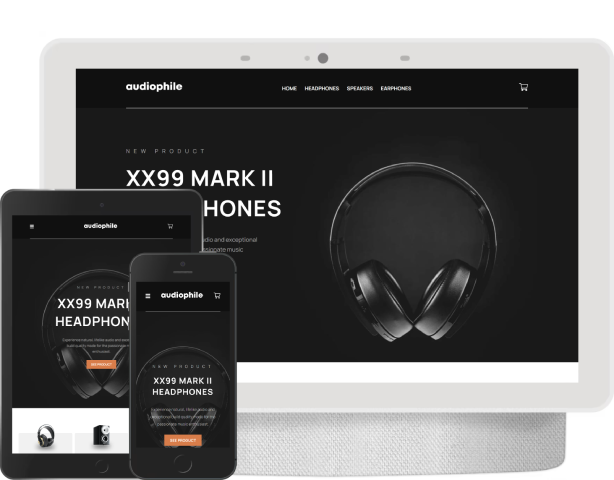
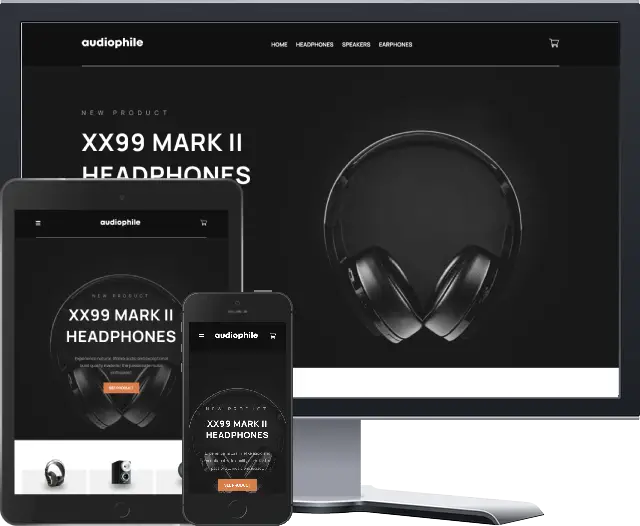
update images for projects section

diff --git a/index.html b/index.html
@@ -53,20 +53,7 @@
             </a>
           </div>
           <div class="desktop-nav__link-wrapper">
-            <div class="desktop-nav__link desktop-nav__link--drop-down">
-              <a
-                >Projects
-                <i
-                  class="desktop-nav__dropdown-arrow fa-solid fa-chevron-down"
-                ></i>
-              </a>
-              <div class="desktop-nav__sub-links-wrpper">
-                <a class="desktop-nav__sub-link" href="./allProjects.html"
-                  >All</a
-                >
-                <a class="desktop-nav__sub-link" href="./#projects">Featured</a>
-              </div>
-            </div>
+            <a class="desktop-nav__link" href="./#projects"> Projects </a>
           </div>
           <div class="link-wrapper">
             <a class="desktop-nav__link" href="#about"> About</a>
@@ -92,21 +79,12 @@
                 >Home</a
               >
             </div>
-            <div class="mobile-nav__item mobile-nav__dropdown">
-              <div class="mobile-nav__dropdown-toggle">
-                Projects
-                <i
-                  class="mobile-nav__dropdown-arrow fa-solid fa-chevron-down"
-                ></i>
-              </div>
-              <div class="mobile-nav__submenu">
-                <div class="mobile-nav__item">
-                  <a class="mobile-nav__link" href="./allProjects.html">All</a>
-                </div>
-                <div class="mobile-nav__item">
-                  <a class="mobile-nav__link" href="./#projects">Featured</a>
-                </div>
-              </div>
+            <div class="mobile-nav__item">
+              <a
+                class="mobile-nav__link mobile-nav__link--active"
+                href="./#projects"
+                >Projects</a
+              >
             </div>
             <div class="mobile-nav__item">
               <a class="mobile-nav__link" href="#about">About</a>
@@ -235,7 +213,7 @@
         <h2>FEATURED PROJECTS</h2>
         <article class="projects__project-container">
           <div class="projects__img-container">
-            <img src="./imgs/stock-manager/all-screens-2.png" alt="" />
+            <img src="./imgs/stock-manager/all-screens.webp" alt="" />
           </div>
           <div class="projects__text-container">
             <h3>Stock Manager</h3>
@@ -259,7 +237,7 @@
         <article class="projects__project-container">
           <div class="projects__img-container">
             <img
-              src="./imgs/ScandiWeb/home.jpg"
+              src="./imgs/ScandiWeb/home.webp"
               alt="ecommerce project screenshot"
             />
           </div>
@@ -323,7 +301,7 @@
         <article class="projects__project-container">
           <div class="projects__img-container">
             <img
-              src="./imgs/country-api/country-api-all-screens.webp"
+              src="./imgs/country-api/rest-api-all-screens.webp"
               alt="Countries Rest Api Application"
             />
           </div>
@@ -365,7 +343,7 @@
         <article class="projects__project-container">
           <div class="projects__img-container">
             <img
-              src="./imgs/huddle-page/huddle-page-all-screens.webp"
+              src="./imgs/huddle-page/huddle-all-screens.webp"
               alt="Huddle landing page"
             />
           </div>
@@ -402,7 +380,7 @@
         <article class="projects__project-container">
           <div class="projects__img-container">
             <img
-              src="./imgs/screencapture-tomsky90-github-io-baking-buisnes-website-2021-12-25-22_13_17.webp"
+              src="./imgs/easy-bank/easy-bank-all-screens.webp"
               alt="Home Baking Website"
             />
           </div>

diff --git a/main.js b/main.js
@@ -4,18 +4,6 @@ const mobileNav = document.querySelector(".mobile-nav__menu");
 const mobileNavOpenBtn = document.querySelector(".mobile-nav__bars");
 const mobileNavCloseBtn = document.querySelector(".mobile-nav__close-btn");
 const links = document.querySelectorAll(".mobile-nav__link");
-const mobileSubMenuToggler = document.querySelector(
-  ".mobile-nav__dropdown-toggle"
-);
-const mobileSubMenu = document.querySelector(".mobile-nav__submenu");
-const mobileNavDropdownArrow = document.querySelector(
-  ".mobile-nav__dropdown-arrow"
-);
-
-const showMobileSubmenu = () => {
-  mobileSubMenu.classList.toggle("active");
-  mobileNavDropdownArrow.classList.toggle("active");
-};
 
 const toggleMobileNav = () => {
   mobileNavOpenBtn.classList.toggle("active");
@@ -24,7 +12,6 @@ const toggleMobileNav = () => {
 };
 
 mobileNavToggle.addEventListener("click", toggleMobileNav);
-mobileSubMenuToggler.addEventListener("click", showMobileSubmenu);
 
 // ----------------------------------------------------------------------------------------------
 //skills

diff --git a/style.css b/style.css
@@ -347,6 +347,8 @@ body {
 }
 
 .hero-section__projects-link {
+  position: relative;
+  z-index: 10;
   padding: 7px 20px;
   background-color: var(--orange);
   color: #fff;
@@ -638,8 +640,6 @@ body {
   -webkit-transition: linear 0.5s;
   -o-transition: linear 0.5s;
   transition: linear 0.5s;
-  -webkit-box-shadow: 0px 15px 21px 0px rgba(0, 0, 0, 0.32);
-  box-shadow: 0px 15px 21px 0px rgba(0, 0, 0, 0.32);
 }
 
 @media only screen and (max-width: 1024px) {
